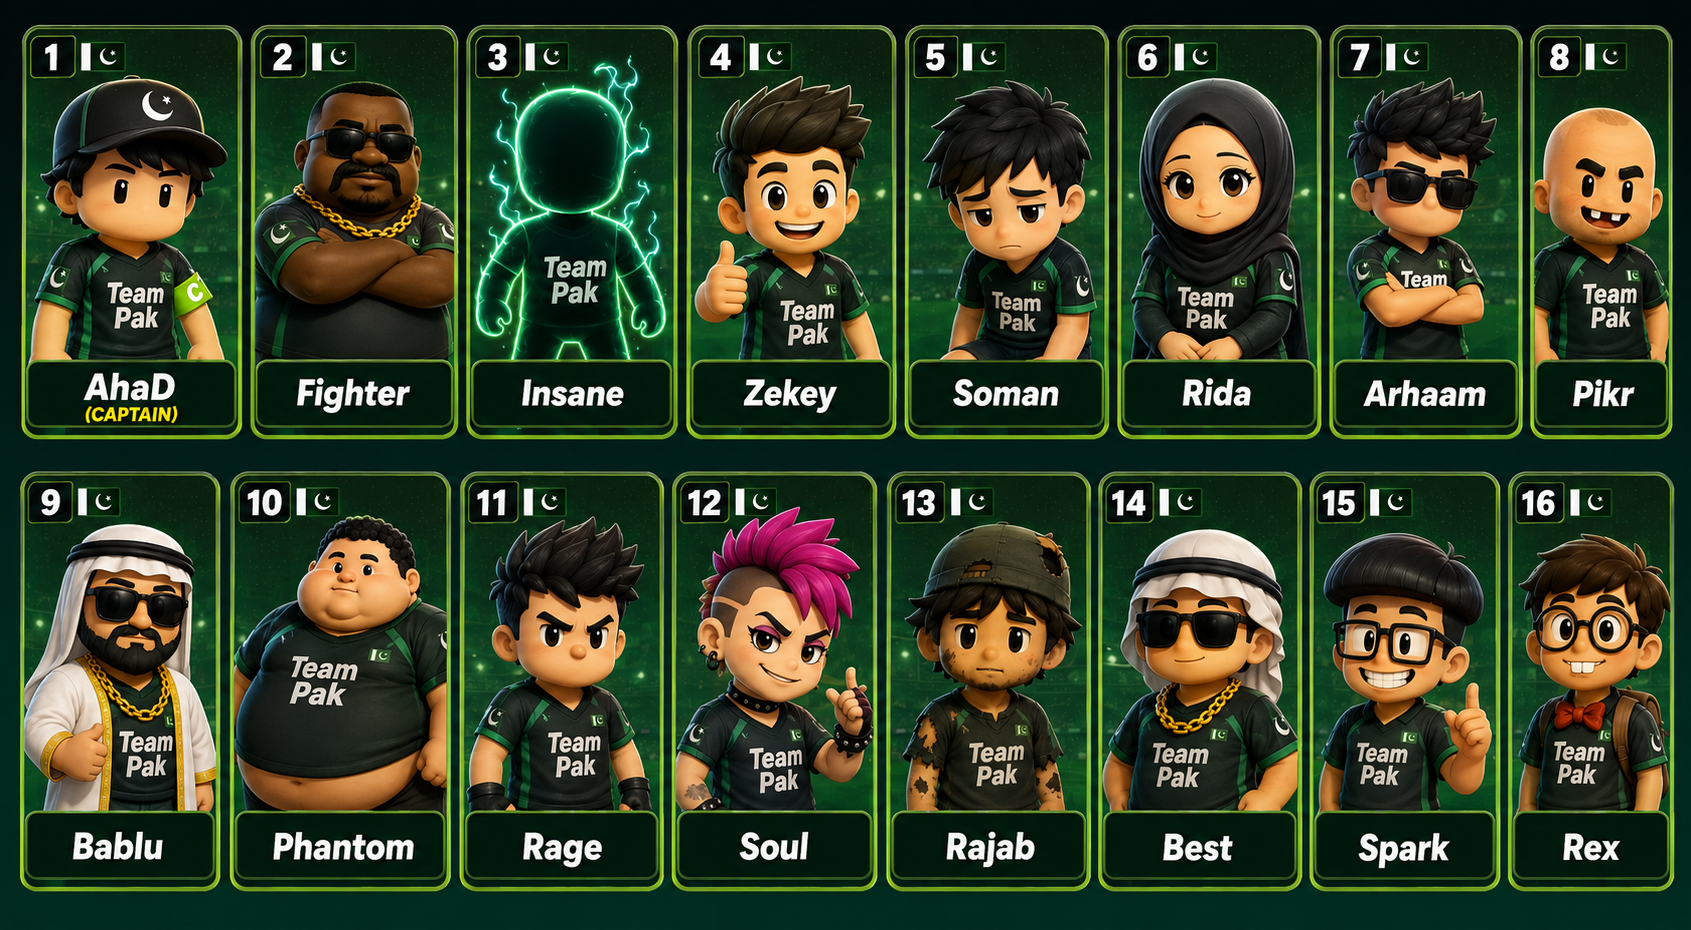
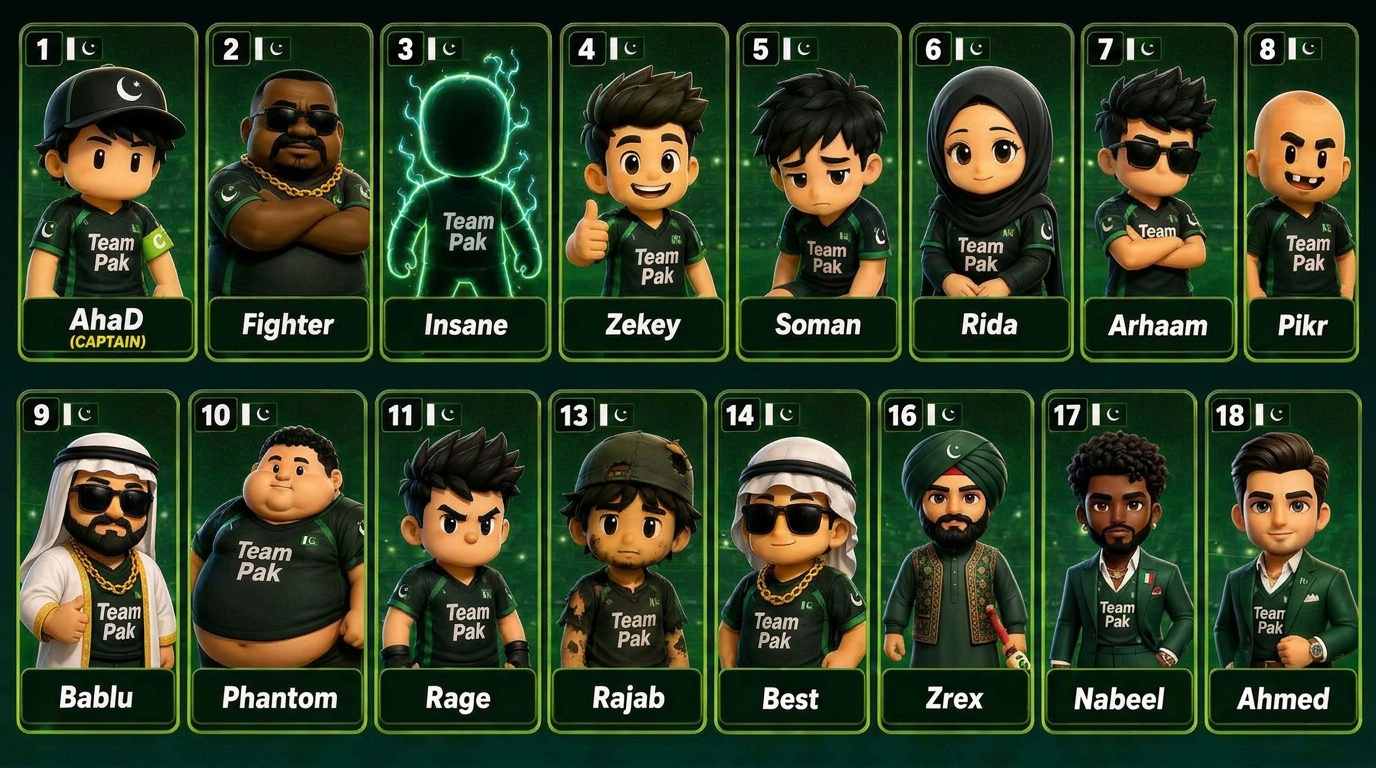
Update roster image and add two players

diff --git a/src/players.js b/src/players.js
@@ -2,8 +2,8 @@ const seed = require('../players.seed.json');
 const { getAllStats, ensurePlayer } = require('./db');
 const config = require('./config');
 
-if (seed.length > 16) {
-  console.warn(`Warning: players.seed.json has ${seed.length} players, but the max is 16.`);
+if (seed.length > 18) {
+  console.warn(`Warning: players.seed.json has ${seed.length} players, but the max is 18.`);
 }
 
 function computeRating(wins, tw) {

diff --git a/README.md b/README.md
@@ -1,6 +1,6 @@
 # Pak Stats — Discord Bot
 
-A small, private Discord bot that tracks stats for up to 16 players.
+A small, private Discord bot that tracks stats for up to 18 players.
 
 ## Commands
 
@@ -22,7 +22,7 @@ Player name matching is case-insensitive and also matches on a partial name
 configurable, default win=2, tw=1). It recalculates automatically any time
 wins or TW change — it isn't stored, it's computed on the fly.
 
-**Rank** = position among all 16 players sorted by Wins (ties broken by TW,
+**Rank** = position among all 18 players sorted by Wins (ties broken by TW,
 then name). Also recalculated automatically, never stored.
 
 ## Project layout
@@ -31,10 +31,10 @@ then name). Also recalculated automatically, never stored.
 pak-stats-bot/
 ├── players.seed.json      ← EDIT THIS: names, strengths, weaknesses, image filenames
 ├── assets/
-│   ├── players/            ← put the 16 player pictures here
+│   ├── players/            ← put the 18 player pictures here
 │   │   ├── player01.png
 │   │   ├── ...
-│   │   └── player16.png
+│   │   └── player18.png
 │   └── roster.png          ← the full-roster picture
 ├── data/                    ← SQLite database lives here (wins/TW only)
 └── src/                     ← bot code
@@ -42,7 +42,7 @@ pak-stats-bot/
 
 ### Editing player data
 
-`players.seed.json` is already filled in with the 16 players' names, Discord
+`players.seed.json` is already filled in with the 18 players' names, Discord
 IDs, and starting wins/TW:
 
 ```json
@@ -91,7 +91,7 @@ the roster image:
 | `assets/players/rajab.png` | Rajab |
 | `assets/players/soul.png` | Soul |
 | `assets/players/best.png` | Best |
-| `assets/players/rex.png` | Rex |
+| `assets/players/rex.png` | Zrex |
 | `assets/roster.png` | Full team roster graphic |
 
 If an image file is missing, the bot just skips the picture and still shows
@@ -147,5 +147,5 @@ work smoothly in threads/channels with history.
   or the Railway Volume path in production). Everything else (name, picture,
   strengths, weaknesses) is static and lives in `players.seed.json` +
   `assets/`, so it's easy to hand-edit without touching a database.
-- Max 16 players is enforced by convention (the seed file); the bot will warn
-  in the logs if you add more than 16 entries but won't hard-block it.
+- Max 18 players is enforced by convention (the seed file); the bot will warn
+  in the logs if you add more than 18 entries but won't hard-block it.
